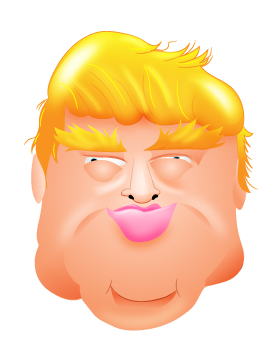
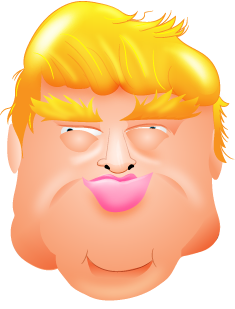
Aggressively crop trumps down and introduce two new ones

diff --git a/src/pages/Home.vue b/src/pages/Home.vue
@@ -36,6 +36,8 @@ import Heading from '../components/Heading';
 
 import yelling from '@/assets/img/trumps/yelling.png';
 import smug from '@/assets/img/trumps/smug.png';
+import escapingHair from '@/assets/img/trumps/escaping_hair.png';
+import bald from '@/assets/img/trumps/bald.png';
 
 export default {
   name: 'Home',
@@ -57,6 +59,14 @@ export default {
           name: 'Smug Trump',
           image: smug,
         },
+        {
+          name: 'Bald Trump',
+          image: bald,
+        },
+        {
+          name: 'Escaping Hair',
+          image: escapingHair,
+        }
       ],
       trumpIndex: 0,
     };
@@ -76,7 +86,7 @@ export default {
     trumpize: function(text) {
       const emojiis = ['☝', '👌', '🖐', '👋', '🤏', '👐', '👋'];
       return text.split(' ')
-        .map((word) => word + (Math.random() >= 0.2 ? emojiis[Math.floor(Math.random() * emojiis.length)] : ''))
+        .map((word) => word + (Math.random() >= 0.5 ? emojiis[Math.floor(Math.random() * emojiis.length)] : ''))
         .join(' ');
     },
     setTrump: function(trumpIndex) {
